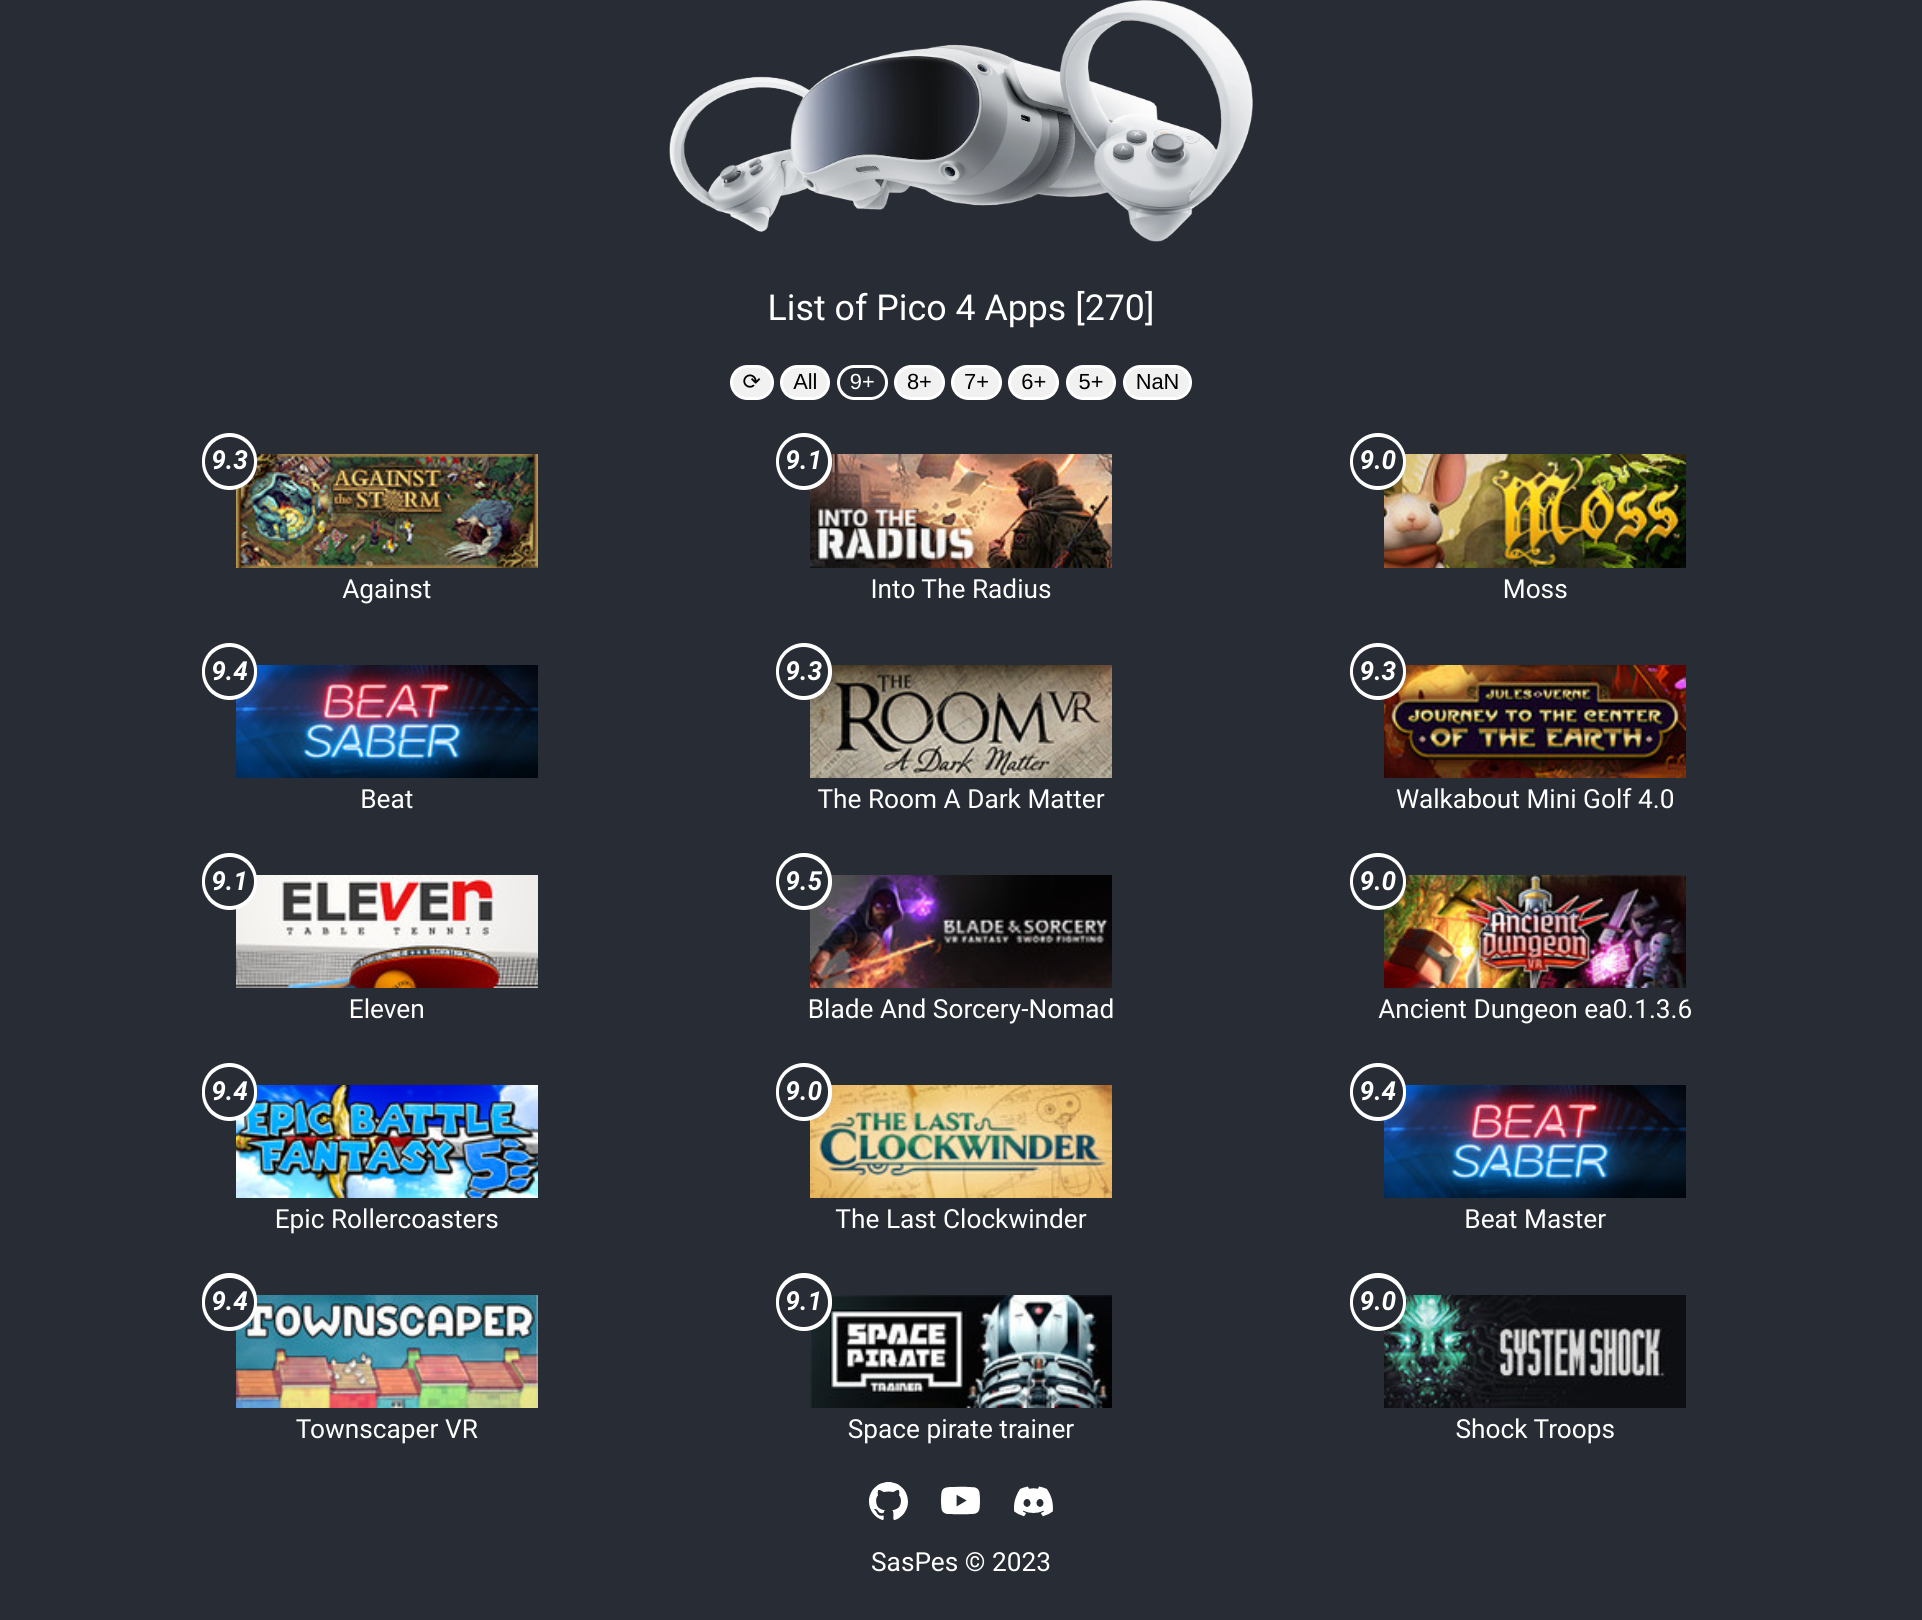
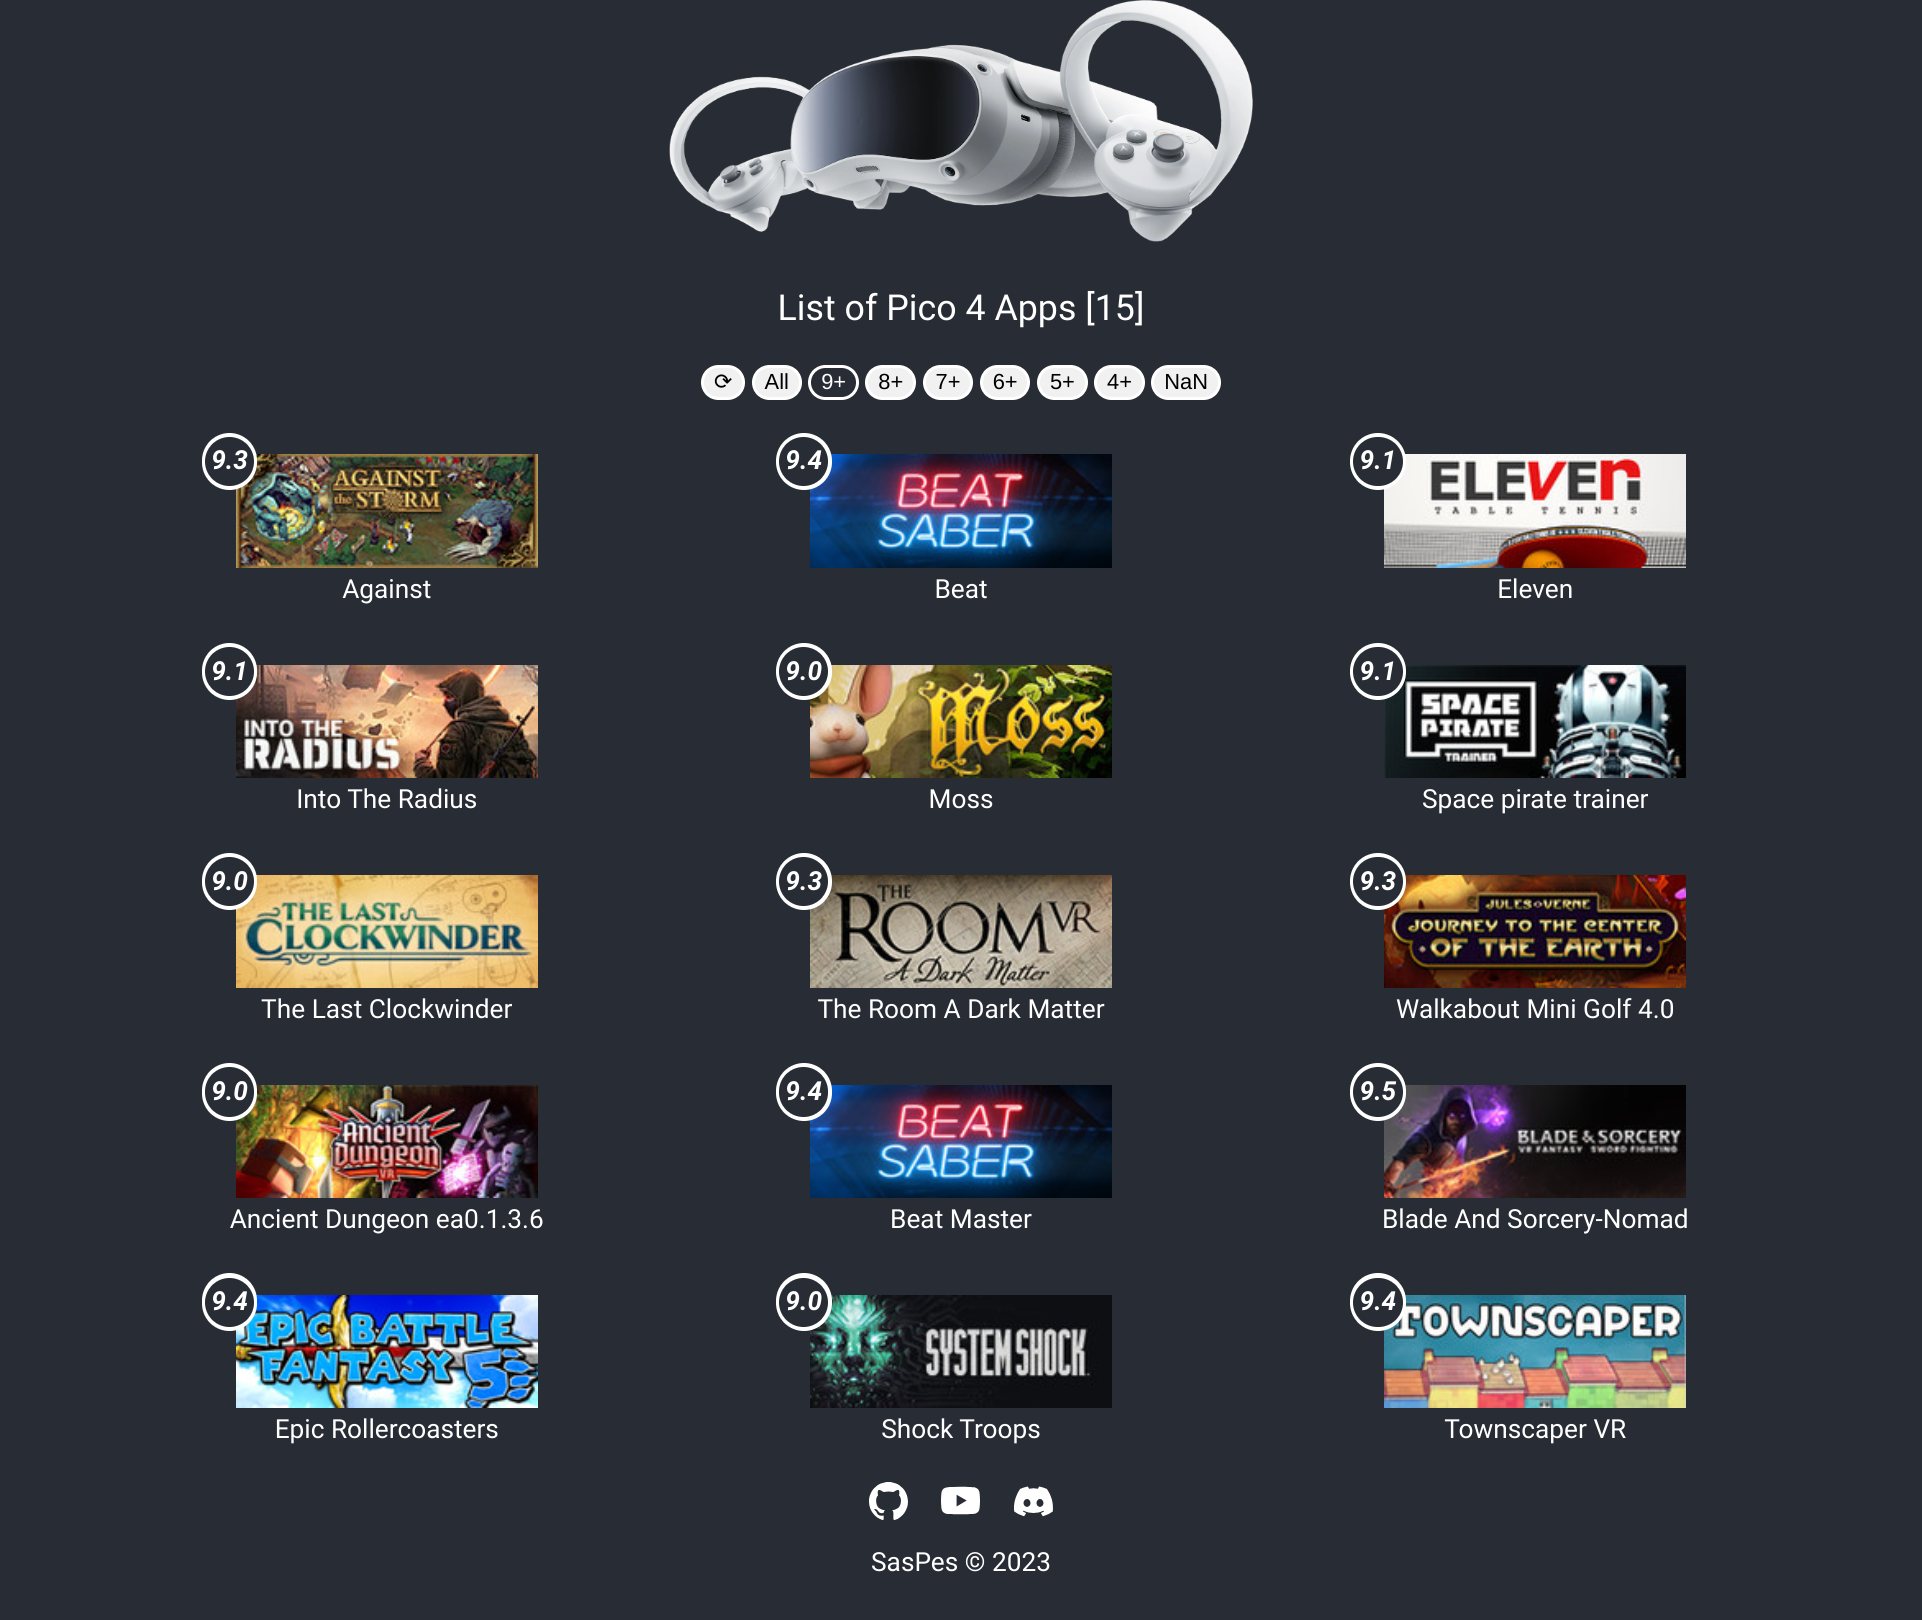
SS and ico

diff --git a/README.md b/README.md
@@ -1,6 +1,6 @@
 # Pico 4 Apps (P4A)
 
-List of Pico 4 apps with pictures, rating and links to Steam page  
+List of Pico 4 apps with pictures, filter, rating and links to Steam page  
 
 https://p4a.onrender.com
 
